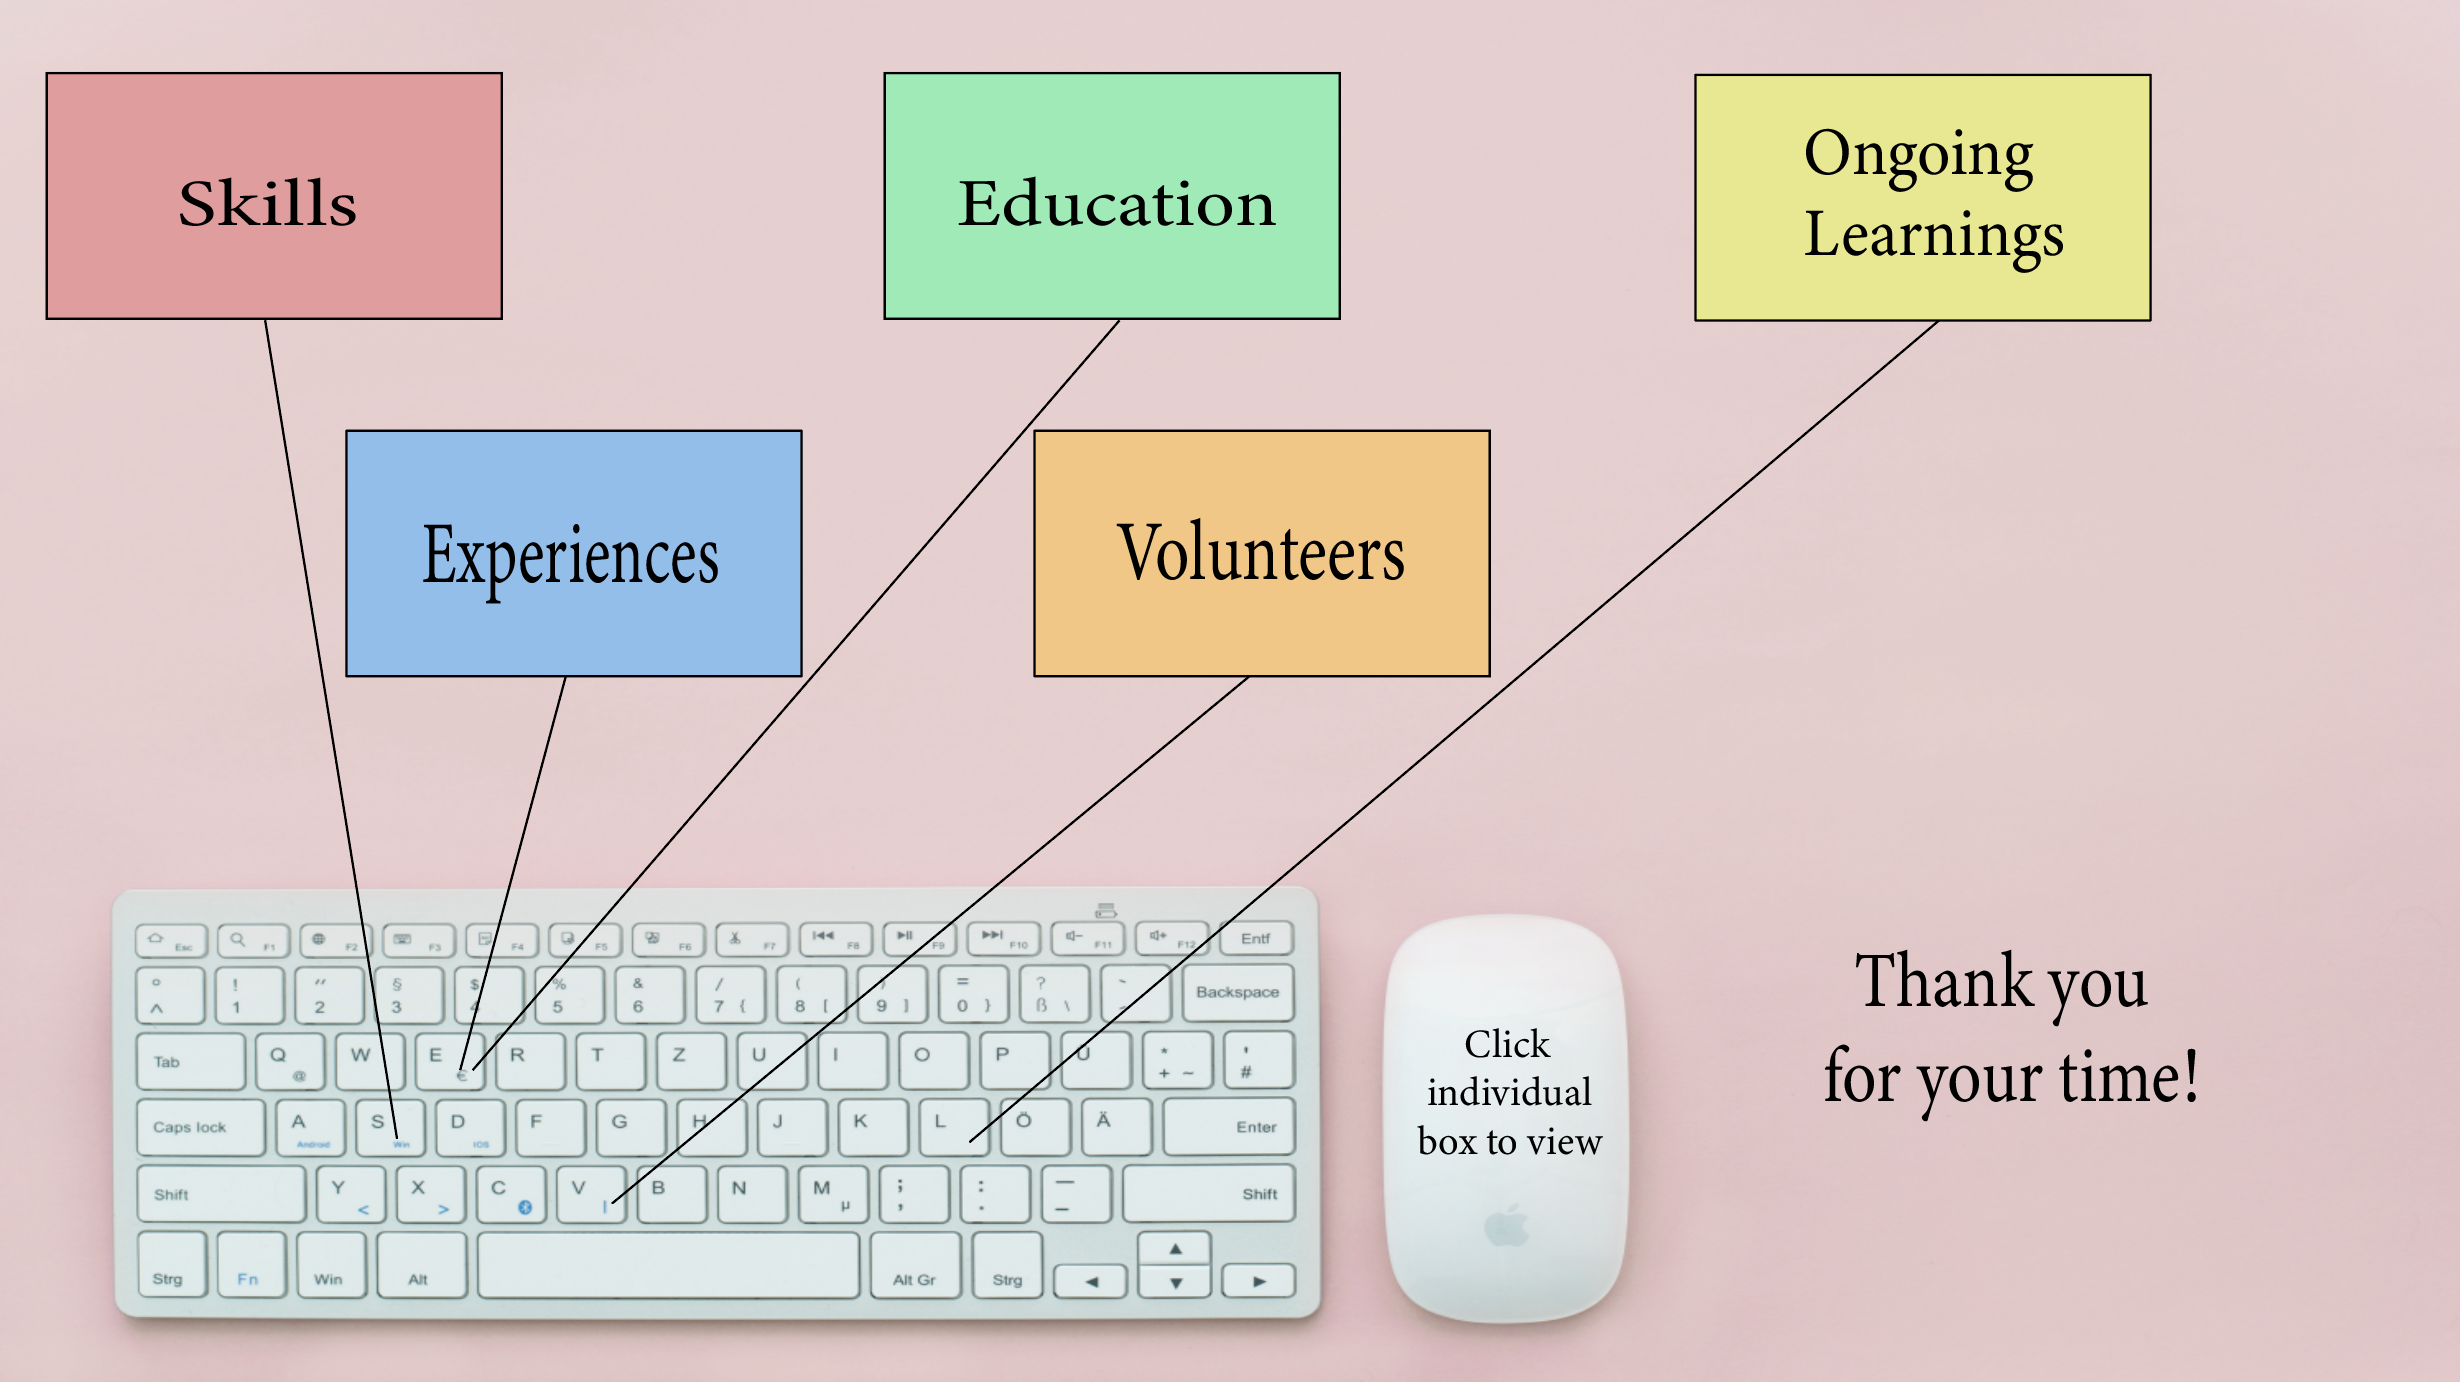
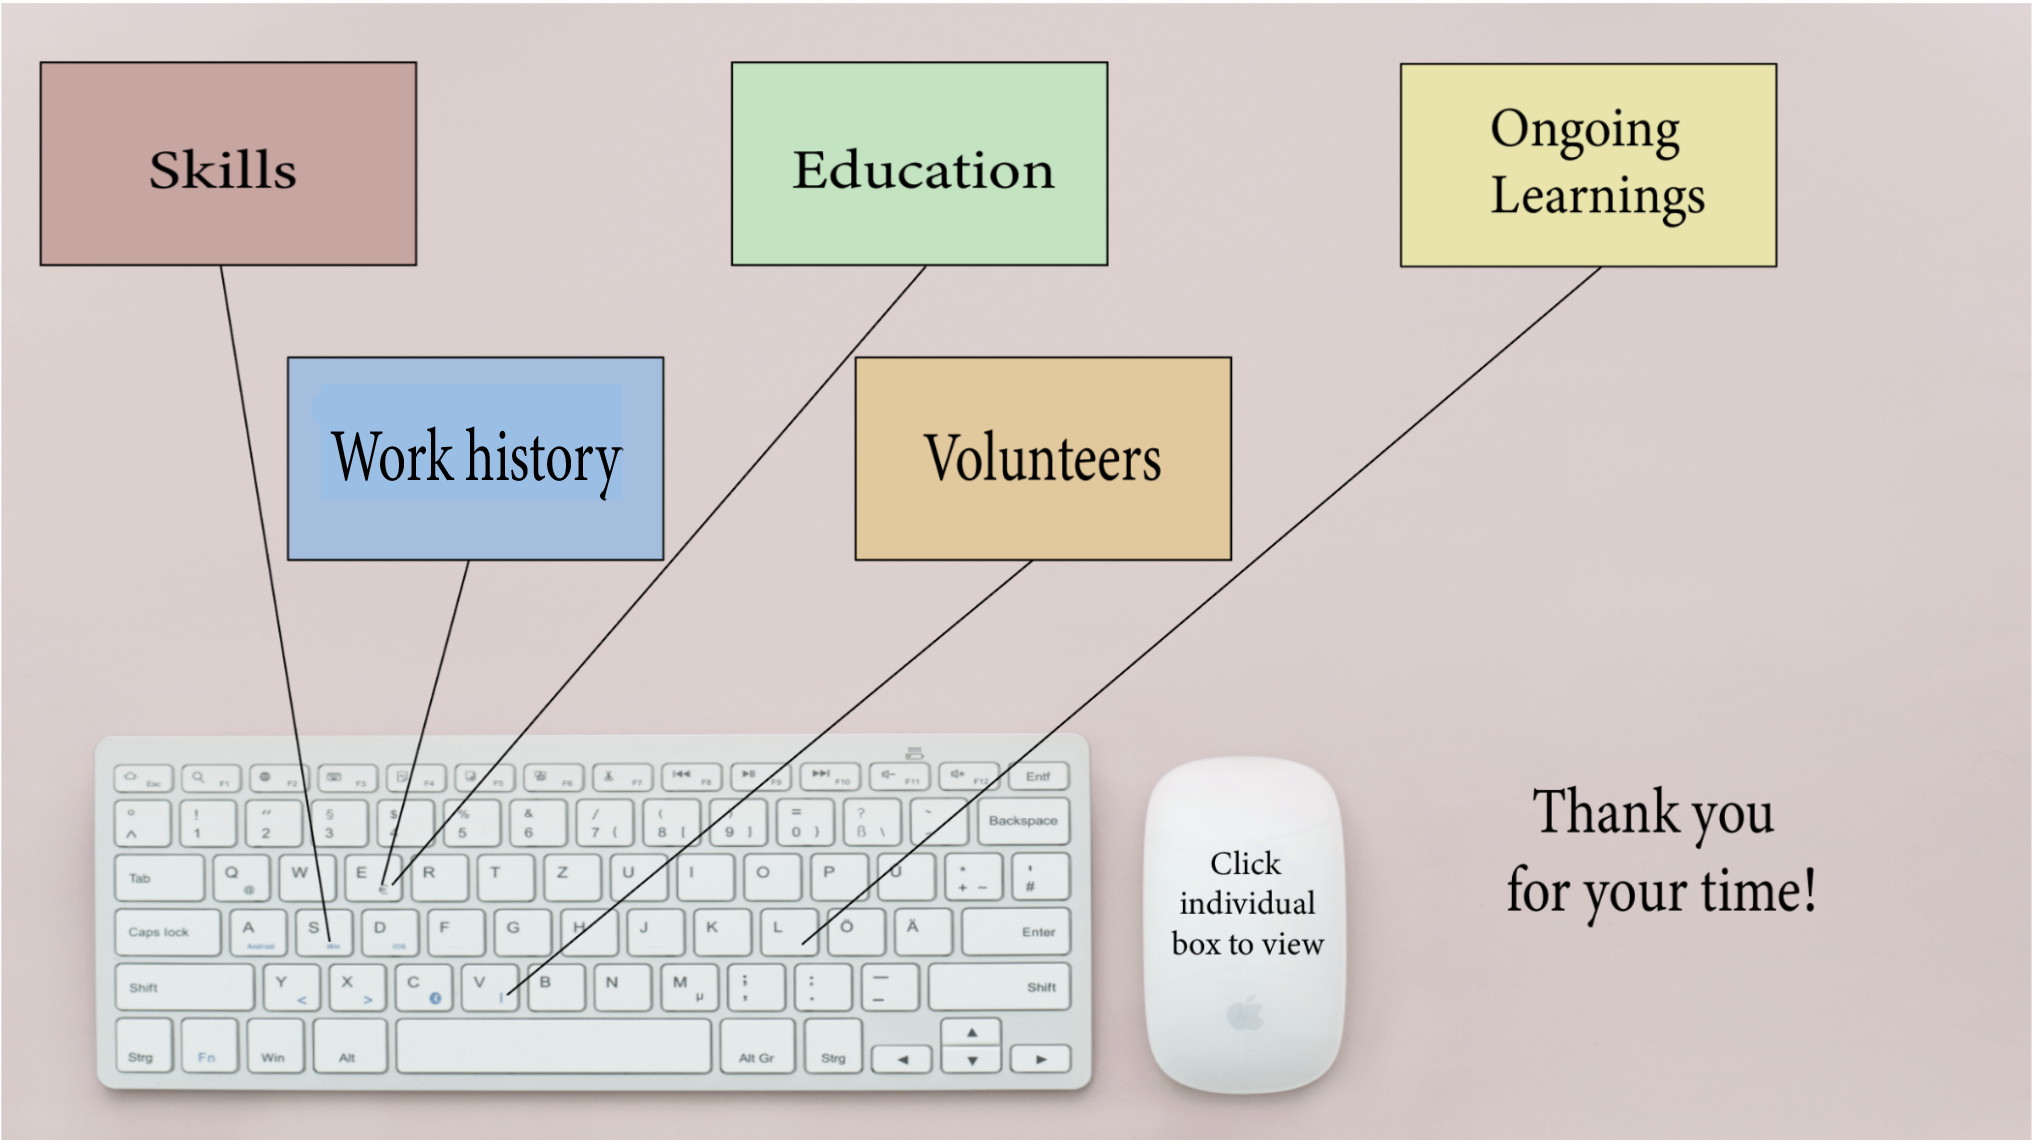
updated work history

diff --git a/work-history.html b/work-history.html
@@ -13,10 +13,17 @@
     <div class ="experience-text">
       <section>
         <button onclick="window.location.href = 'index.html';">Main Page</button>
-        <h2>Experiences</h2>
+        <h2>Work Experiences</h2>
+        <h3>Wilh-ma E-commerce - Developer Intern</h3>
+        <div class="time">Jan 2020 - present</div>
+        <ul>
+          <li>Development if website using Shopify Liquid, incorporating E-commerce component.</li>
+          <li>Use of HTML, Css and MySQL development ad refinement for web</li>
+          <li>Flutter / React for Mobile app </li>
+        </ul>
+
         <h3>Hospitality - Cafe Manager, Barista</h3>
         <div class="time">Sept 2014 - present</div>
-        <p>Job summary</p>
         <ul>
           <li>Making barista coffee, responsible for stock check, training new employees, provide excellent customer service, handle customer complaints</li>
           <li>Responsible for creating and designing Menus, Brochures and social media contents according to employer’s need.</li>
@@ -24,7 +31,6 @@
 
         <h3>HOW2RMIT presenter</h3>
         <div class="time">Jan 2019 - Apr 2019</div>
-        <p>Job summary</p>
         <ul>
           <li>Support University initiatives designed to improve transition phases for new students</li>
           <li>Presentation using Powerpoint to big group of audiences</li>

diff --git a/skill.html b/skill.html
@@ -17,9 +17,9 @@
         <div class="grid-item">Interpersonal</div>
         <div class="grid-item">Excellent communication and time management, ability to adapt and quick to learn, problem-solving skills, analytical thinking</div>
         <div class="grid-item">Technical</div>
-        <div class="grid-item">Java, php, HTML, CSS, Javascript, C# , Adobe Illustrator, Photoshop, MVC model, Microsoft, Agile scrum development</div>
+        <div class="grid-item">React, php, HTML, CSS, Javascript, Java, C# , Adobe Illustrator, Photoshop, MVC model, Microsoft, Agile scrum development</div>
         <div class="grid-item">Software</div>
-        <div class="grid-item">Github, IntelliJ, SQL, Visual studio, Azure Studio, mySQL, phpStorm, Shopify, Squarespace</div>
+        <div class="grid-item">Github, Shopify, IntelliJ, SQL, Visual studio, Azure Studio, mySQL, phpStorm, Shopify, Squarespace</div>
         <div class="grid-item">Languages</div>
         <div class="grid-item">English (proficient), Chinese(proficient), Nepali(Basic)</div>
       </div>

diff --git a/index.html b/index.html
@@ -33,7 +33,7 @@
 			<map name="keyboardCV">
 				<area shape="rect" coords="18,25,184,115" alt="skill" href="skill.html">
 				<area shape="rect" coords="324,25,492,115" alt="education" href="education.html">
-				<area shape="rect" coords="127,158,295,246" alt="experience" href="experience.html">
+				<area shape="rect" coords="127,158,295,246" alt="work history" href="work-history.html">
 				<area shape="rect" coords="380,158,545,246" alt="volunteer" href="volunteer.html">
 				<area shape="rect" coords="620,25,789,115" alt="learning" href="learning.html">
 			</map>

diff --git a/learning.html b/learning.html
@@ -15,6 +15,7 @@
     <div  class = "learning-text">
       <h2>Ongoing online learnings</h2>
       <ul>
+        <li>A Complete guide to React (via Udemy)</li><div class="time">May 2020</div>
         <li>Javascript Fundamental (via Pluralsight)</li><div class="time">April 2020</div>
         <li>CSS Essential Training (via LinkedinLearning)</li><div class="time">Jan 2020</div>
         <li>Introduction to CSS and HTML</li><div class="time">Dec 2019</div>
